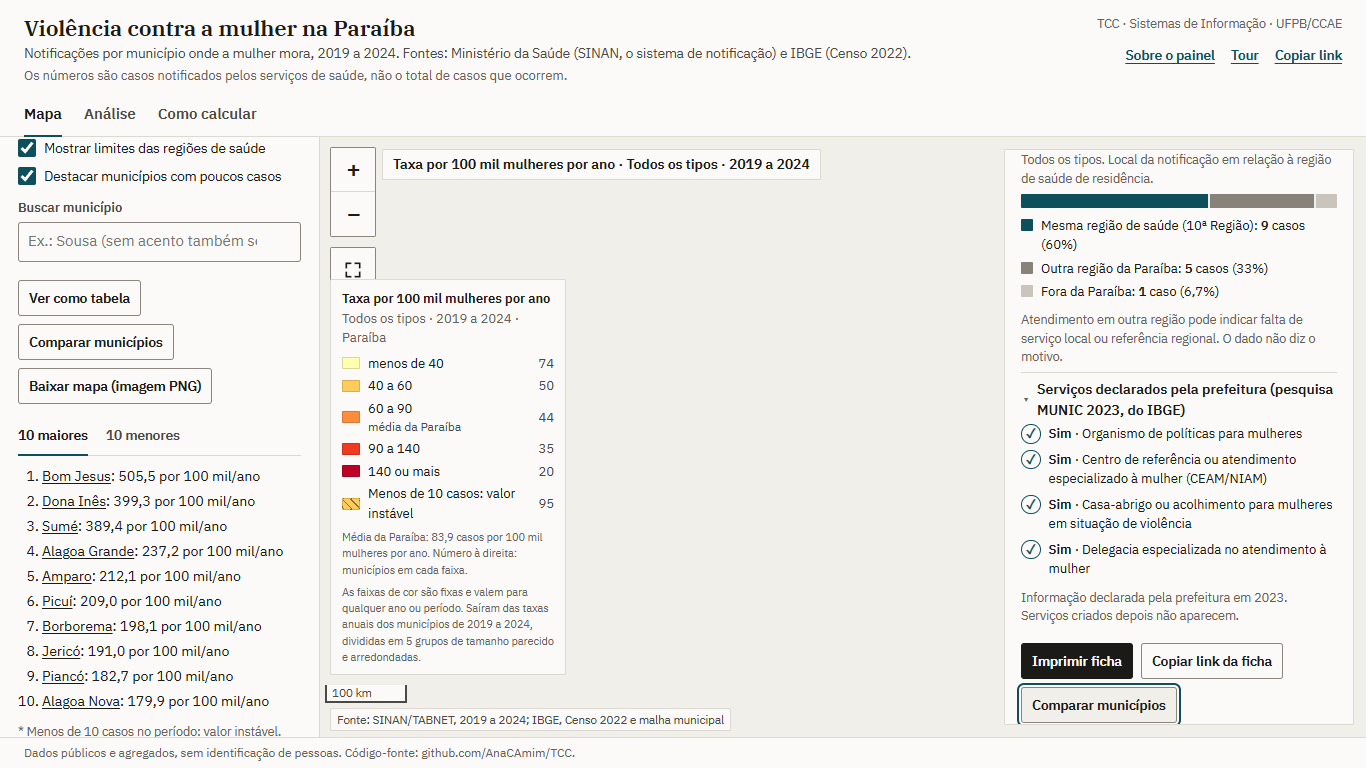
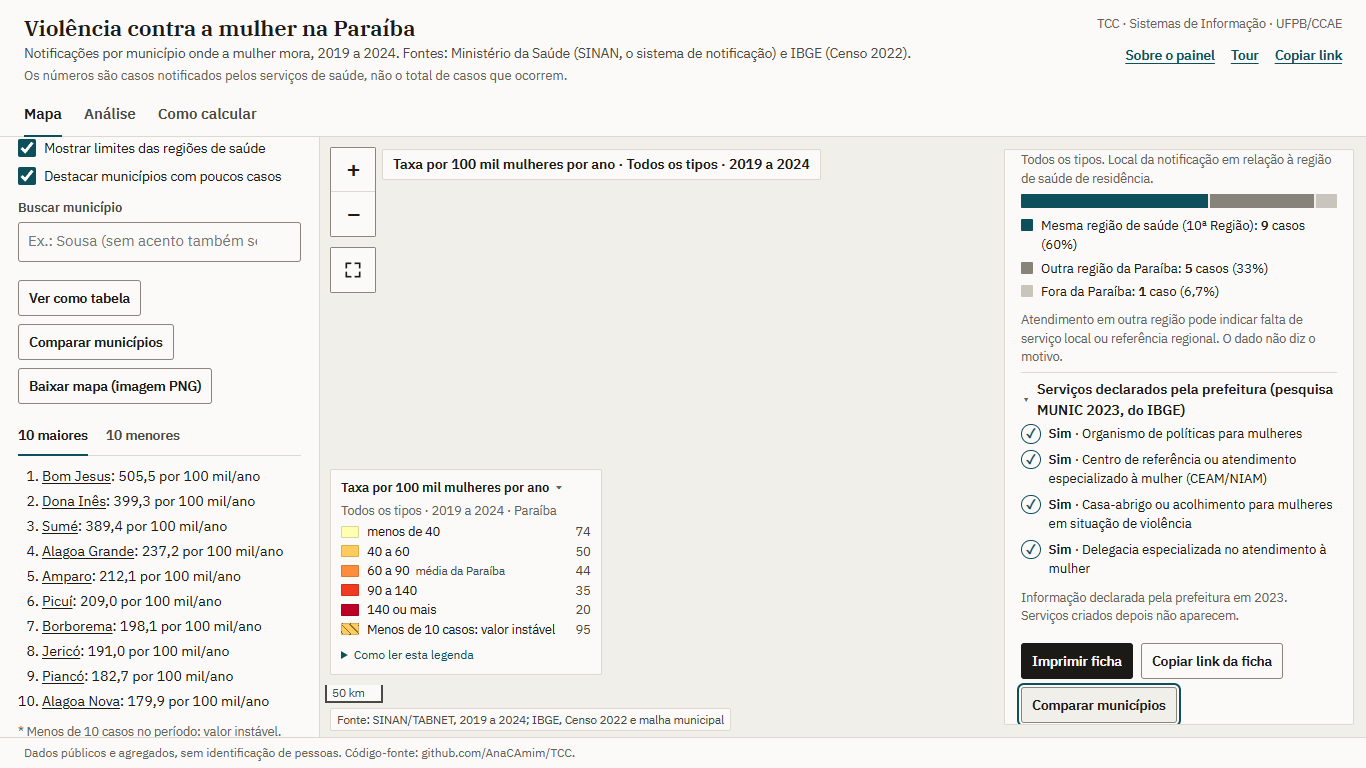
Docs: layout do mapa L1–L4 e capturas com a ficha de Sumé nos dois temas

Changed region(s): [[0.246, 0.375, 0.4305, 0.9062], [0.3997, 0.5938, 0.4305, 0.625]]

diff --git a/docs/websig_usabilidade.md b/docs/websig_usabilidade.md
@@ -308,3 +308,23 @@ Ficaram como estavam, porque são dados para planilha e não texto de leitura: o
 - Legenda da comparação em palavras, com os limites em letra menor; marca "média da Paraíba" na classe certa da taxa; ficha de Sousa com "contra 83,9 na média da Paraíba" e "Muito abaixo da média"; comparação de municípios igual à view.
 - Testes: dados 67, painel 159 (Firefox e WebKit 158), usabilidade 34, 0 falhas. Material do teste com usuários (`docs/teste_usuarios/`) regerado com os nomes novos.
 - Capturas: `capturas/ficha_resumo_sume.png`, `ficha_resumo_sousa.png`, `ficha_resumo_joao_pessoa.png`.
+
+## Layout do mapa: legenda compacta, canvas claro e mapa maior (ramo `bases-contexto`, 22/11/2026)
+
+Dados, fórmulas, indicadores e textos aprovados não mudaram: os textos só foram reorganizados. O front anterior está em `backup/etapa9/`, fora do repositório.
+
+| # | Elemento | Antes | Depois | Por quê |
+|---|---|---|---|---|
+| L1 | Legenda | Com os rótulos em palavras, cada classe ocupava 2 ou 3 linhas. A legenda rolava, cobria parte do mapa e escondia o botão de diminuir o zoom | Uma linha por classe: cor, rótulo em palavras e limite em letra menor na mesma linha, e o número de municípios à direita. Explicações ("Esperado: …", como as faixas foram feitas, média da Paraíba, "O tamanho do círculo…") dentro de **"Como ler esta legenda"**, recolhido. O título da legenda é o próprio botão de recolher a legenda inteira (aria-expanded; com "Legenda:" para leitor de tela), no computador e no celular | Sem rolagem em 1366×768, nas três telas do indicador. As explicações continuam a um clique |
+| L2 | Legenda × mapa | A legenda podia ficar sobre os botões de zoom e sobre o estado | Altura máxima abaixo dos botões. Ao abrir ou recolher a legenda ou o "Como ler", trocar o indicador ou ligar e desligar a hachura, o mapa se reenquadra para nada ficar sobre o estado. Isso só acontece enquanto a pessoa não tiver arrastado ou dado zoom | Nunca esconder dado nem controle |
+| L3 | Fundo do mapa no tema escuro | O mapa e a legenda seguiam o tema e ficavam escuros (item R1 da revisão visual) | **Canvas claro:** no tema escuro, o mapa e o que fica sobre ele (legenda, escala, fonte, botões, rótulos) e o título do mapa usam os tons do tema claro. Só a interface ao redor (filtros, ficha, ranking, abas) fica escura. As cores do desenho e do PNG passam a ser lidas do próprio mapa (`cssM` em `mapa.js`); a ficha continua lendo as do tema | Visto no site publicado: com fundo escuro, o quase branco de "perto da média" e o amarelo-claro das taxas baixas eram o que mais brilhava, o que invertia a leitura "escuro = mais" (Schiewe, 2024). Isto substitui o item R1 |
+| L4 | Enquadramento com a ficha aberta | Margens fixas pela caixa do estado: com a legenda ao lado, a Paraíba ficava com 361 px de largura em 1366×768 | São testadas duas margens seguras, com o estado ao lado da legenda ou acima dela. Depois, uma grade de 7×7 margens menores, aceitas quando o **contorno real** do estado (não a caixa) não encosta na legenda nem nos botões de zoom. A legenda pode, assim, ocupar o canto vazio da caixa (o sudoeste, abaixo do Sertão). Vale o mesmo para uma região de saúde (contorno da região). Também foi refinado o passo de zoom (0,25 → 0,1). No celular, quando a legenda aberta deixaria menos de 120 px livres, o estado fica inteiro e a legenda por cima dele, recolhível | Mapa maior, sem nada sobre o estado |
+
+### Conferência
+- 1366×768, com a ficha de Sumé aberta, nos temas claro e escuro: a Paraíba tem **512 px** de largura, contra 361 px antes. Isso é **127%** da largura útil entre a legenda e a ficha (402 px; a meta era 60%). O contorno não toca a legenda, a ficha, os botões de zoom nem o título. O teste confere 600 pontos da linha desenhada e se os cantos e o centro de cada retângulo estão fora do estado (`isPointInFill`).
+- Legenda em 1366×768 (taxa e comparação com a média, nos dois temas): sem rolagem vertical nem horizontal, todas as linhas com 18 px, "Como ler" recolhido, sem cobrir os botões de zoom nem o estado. O botão recolhe e mostra a legenda. Aberto o "Como ler", o mapa se reenquadra sem nada sobre o estado.
+- Canvas claro: luminância do fundo do mapa 0,86 e da legenda 0,96 nos dois temas, enquanto o fundo da página fica em 0,01 no tema escuro. O teste antigo ("o fundo segue o tema") foi trocado por este.
+- Celular (390×844): legenda recolhida por padrão (mostra só o título); aberta, o estado continua inteiro no mapa.
+- Testes: dados 67, painel 169 (Firefox e WebKit 168), usabilidade 34, 0 falhas.
+- Lighthouse local com compressão: celular 98, 97 e 96 em três rodadas (mediana 97; antes, mediana 97,5), relatório guardado 98. Computador 100. Acessibilidade 100 nos dois.
+- Capturas: `capturas/{1366,celular}_{claro,escuro}_ficha_sume.png`, além das telas de taxa, comparação e casos já existentes.
